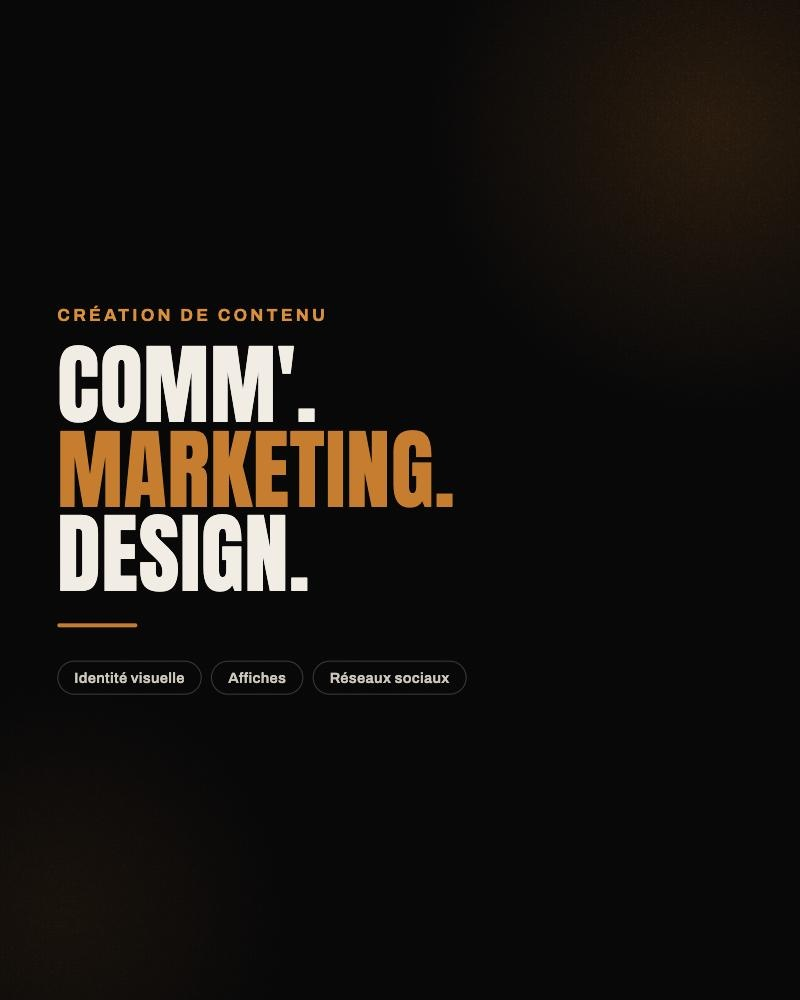
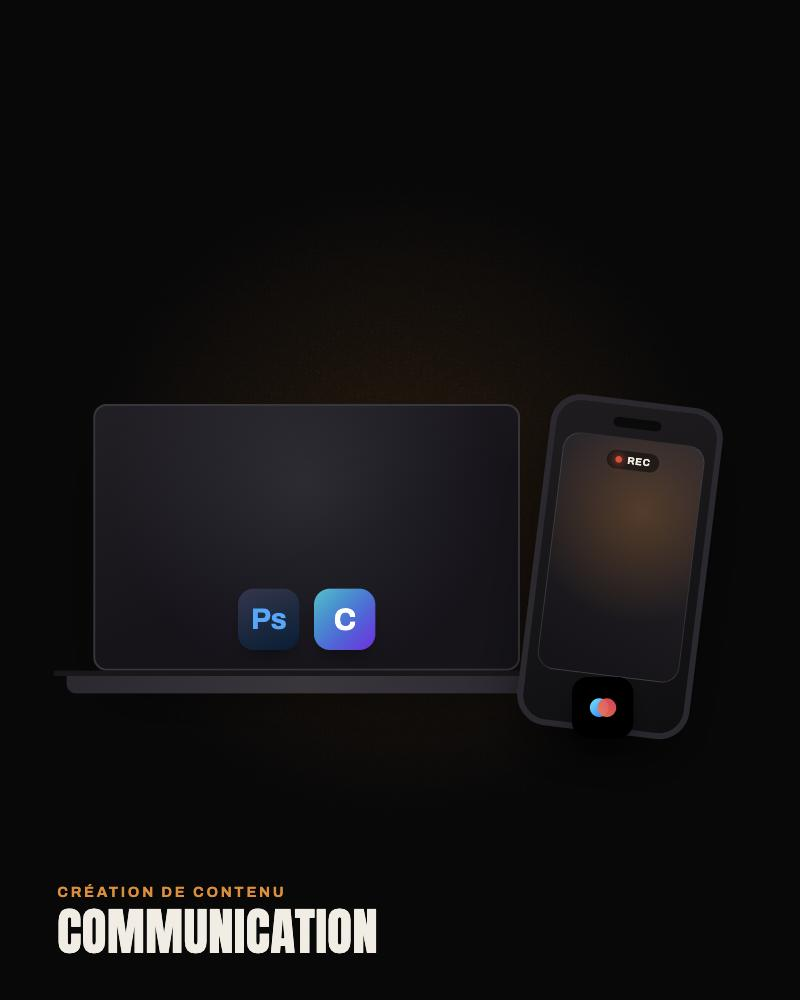
Add designed covers for Communication/Visuels/Vidéos, reorder videos by account
- Home "Communication" gate-card: laptop + phone with Photoshop, Canva
  and CapCut badges (mix of both app sets)
- "Visuels" sub-album cover: laptop with Photoshop + Canva
- "Vidéos" sub-album cover: phone filming with CapCut
- Reordered the 13 video clips by source Instagram account (read from
  each clip's on-screen watermark): @chatax_off first, then
  @padelshot_rouen_barentin, then @alcl_tennis_de_table last — no
  reliable publish-date metadata exists beyond the account name shown
  on each clip, so ordering within each account is unchanged

diff --git a/index.html b/index.html
@@ -784,12 +784,13 @@
     'braderie-lille-2026': {label:'Braderie de Lille 2026', mood:'braderie', cover:'cover.jpg', files: range(98)},
     'padel': {label:'Padel', mood:'padel', cover:'cover.jpg', files: range(21)},
   };
-  const VIDEO_FILES = ['001','002','003','004','005','006','007','008','009','010','011','012','013'];
+  /* ordre : comptes Chatax en premier, Padelshot ensuite, ALCL en dernier */
+  const VIDEO_FILES = ['006','008','007','010','001','002','003','004','005','009','011','012','013'];
   const DOSSIERS = {
     'visuels': {
       label: 'Visuels',
       type: 'images',
-      cover: 'img/visuels/alcl-grand-quevilly/cover.jpg',
+      cover: 'img/communication/visuels-cover.jpg',
       items: [
         {key:'alcl-grand-quevilly', files: range(61)},
         {key:'padelshot-barentin', files: range(20)},
@@ -801,7 +802,7 @@
     'videos': {
       label: 'Vidéos',
       type: 'videos',
-      cover: `videos/communication/${VIDEO_FILES[0]}-poster.jpg`,
+      cover: 'img/communication/videos-cover.jpg',
       items: VIDEO_FILES.map(fn => ({src:`videos/communication/${fn}.mp4`, poster:`videos/communication/${fn}-poster.jpg`})),
     },
   };

diff --git a/portfolio.html b/portfolio.html
@@ -784,12 +784,13 @@
     'braderie-lille-2026': {label:'Braderie de Lille 2026', mood:'braderie', cover:'cover.jpg', files: range(98)},
     'padel': {label:'Padel', mood:'padel', cover:'cover.jpg', files: range(21)},
   };
-  const VIDEO_FILES = ['001','002','003','004','005','006','007','008','009','010','011','012','013'];
+  /* ordre : comptes Chatax en premier, Padelshot ensuite, ALCL en dernier */
+  const VIDEO_FILES = ['006','008','007','010','001','002','003','004','005','009','011','012','013'];
   const DOSSIERS = {
     'visuels': {
       label: 'Visuels',
       type: 'images',
-      cover: 'img/visuels/alcl-grand-quevilly/cover.jpg',
+      cover: 'img/communication/visuels-cover.jpg',
       items: [
         {key:'alcl-grand-quevilly', files: range(61)},
         {key:'padelshot-barentin', files: range(20)},
@@ -801,7 +802,7 @@
     'videos': {
       label: 'Vidéos',
       type: 'videos',
-      cover: `videos/communication/${VIDEO_FILES[0]}-poster.jpg`,
+      cover: 'img/communication/videos-cover.jpg',
       items: VIDEO_FILES.map(fn => ({src:`videos/communication/${fn}.mp4`, poster:`videos/communication/${fn}-poster.jpg`})),
     },
   };

diff --git a/public/index.html b/public/index.html
@@ -784,12 +784,13 @@
     'braderie-lille-2026': {label:'Braderie de Lille 2026', mood:'braderie', cover:'cover.jpg', files: range(98)},
     'padel': {label:'Padel', mood:'padel', cover:'cover.jpg', files: range(21)},
   };
-  const VIDEO_FILES = ['001','002','003','004','005','006','007','008','009','010','011','012','013'];
+  /* ordre : comptes Chatax en premier, Padelshot ensuite, ALCL en dernier */
+  const VIDEO_FILES = ['006','008','007','010','001','002','003','004','005','009','011','012','013'];
   const DOSSIERS = {
     'visuels': {
       label: 'Visuels',
       type: 'images',
-      cover: 'img/visuels/alcl-grand-quevilly/cover.jpg',
+      cover: 'img/communication/visuels-cover.jpg',
       items: [
         {key:'alcl-grand-quevilly', files: range(61)},
         {key:'padelshot-barentin', files: range(20)},
@@ -801,7 +802,7 @@
     'videos': {
       label: 'Vidéos',
       type: 'videos',
-      cover: `videos/communication/${VIDEO_FILES[0]}-poster.jpg`,
+      cover: 'img/communication/videos-cover.jpg',
       items: VIDEO_FILES.map(fn => ({src:`videos/communication/${fn}.mp4`, poster:`videos/communication/${fn}-poster.jpg`})),
     },
   };
